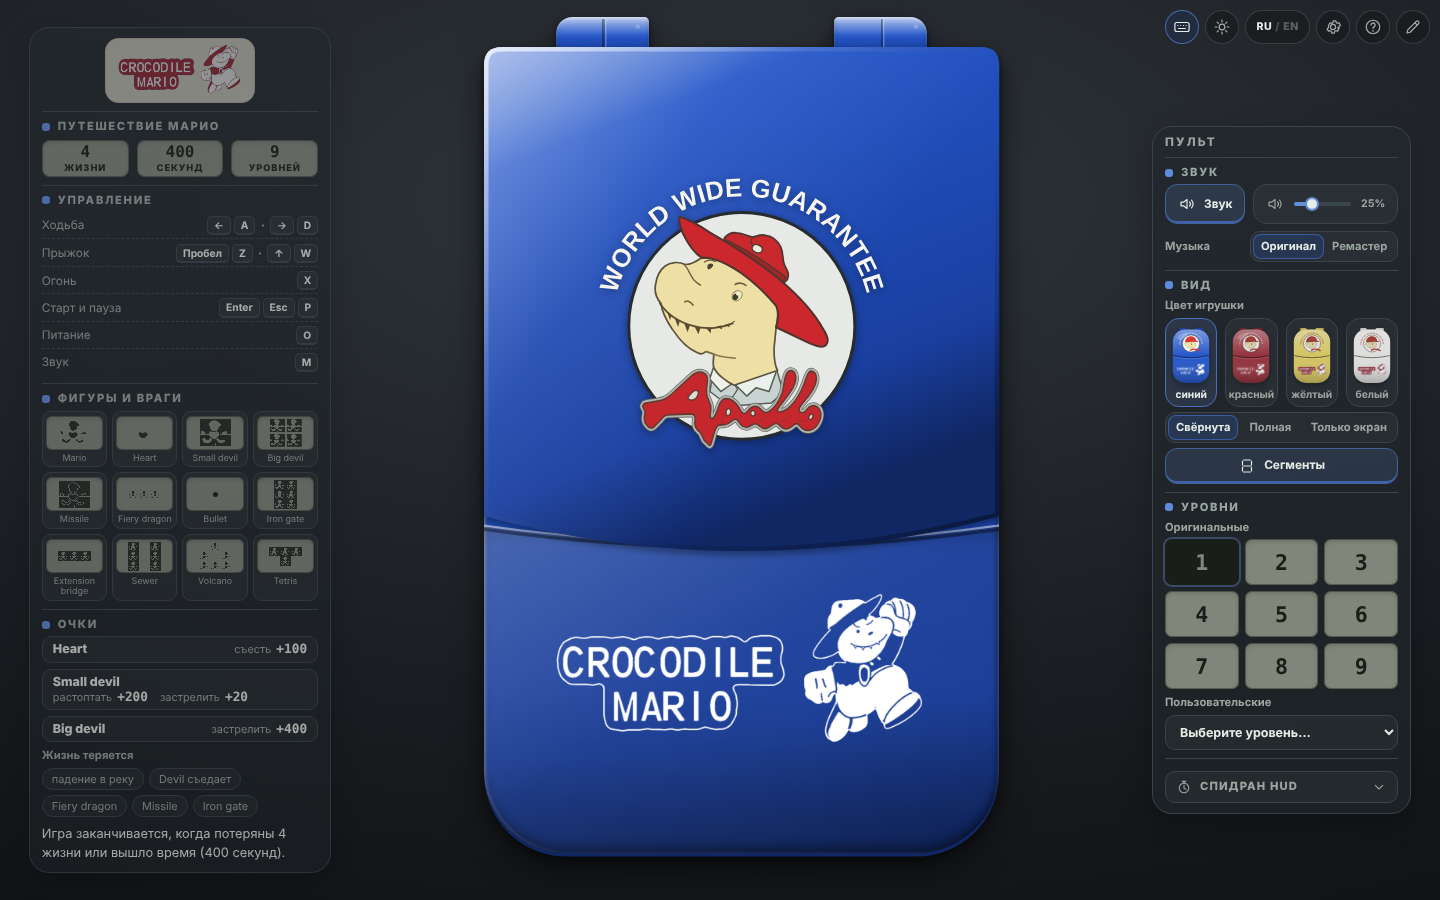
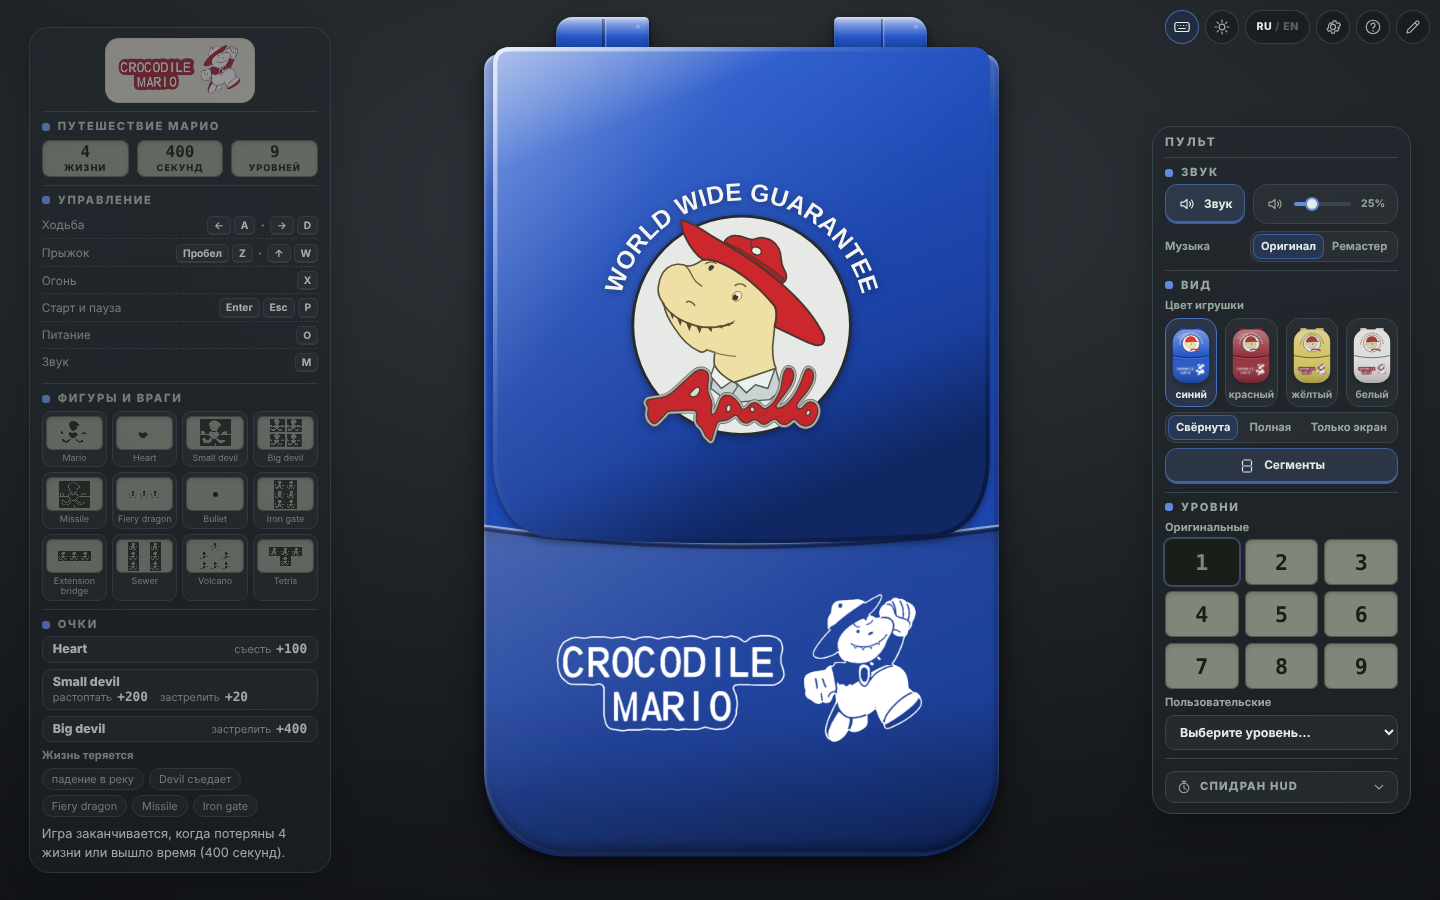
Крышка: перспектива свойством родителя — ось поворота больше не отрывается от шарнира при плавном изменении размера; снимки
Claude-Session: https://claude.ai/code/session_01HTeFxEvLK92BAnJD9rQXz2

diff --git a/tests/smoke/lid.spec.ts b/tests/smoke/lid.spec.ts
@@ -190,6 +190,38 @@ test.describe('раскрытие с анимацией', () => {
     expect(open.w).toBeLessThan(closed.w);
     expect(open.matrix === 'none' || /^matrix(3d)?\(/.test(open.matrix)).toBe(true);
 
+    // Геометрия: ось поворота крышки (её нижняя кромка) всё время совпадает с шарниром — нижней кромкой схлопывающегося места крышки.
+    // Раньше конечное значение transform «уплывало» вместе с размером игрушки, переход перезапускался и крышка отрывалась от шарнира.
+    await page.locator('#view-closed').click();
+    await expect.poll(async () => (await frame()).slot, { timeout: 3000 }).toBeLessThan(4);
+    await page.waitForTimeout(300);
+    await page.locator('#lid-cover').click();
+    const pivot = (): Promise<{ gap: number; transforms: number; slot: number; height: number }> =>
+      page.evaluate(() => {
+        const lid = document.getElementById('lid') as HTMLElement;
+        const m = new DOMMatrix(getComputedStyle(lid).transform);
+        const slot = (document.getElementById('lid-slot') as HTMLElement).getBoundingClientRect().height;
+        const height = lid.offsetHeight;
+        // Нижняя кромка крышки в слое слота: высота − сдвиг вверх; она должна лежать ровно на нижней границе слота.
+        return {
+          gap: Math.abs(height + m.m42 - slot),
+          transforms: document.getAnimations().filter((a) => (a as CSSTransition).transitionProperty === 'transform').length,
+          slot,
+          height,
+        };
+      });
+    const pivots: { gap: number; transforms: number; slot: number; height: number }[] = [];
+    for (let i = 0; i < 16; i++) {
+      pivots.push(await pivot());
+      await page.waitForTimeout(55);
+    }
+    for (const p of pivots) {
+      expect(p.gap).toBeLessThan(3);
+      expect(p.transforms).toBeLessThanOrEqual(1); // один переход, а не цепочка перезапусков
+    }
+    expect(pivots.some((p) => p.slot > 30 && p.slot < p.height - 30)).toBe(true); // проверены и промежуточные кадры
+    await expect.poll(async () => (await pivot()).slot, { timeout: 3000 }).toBeGreaterThan(200);
+
     // Пока крышка поворачивается, шарниров и шлейфа не видно (они за крышкой); после раскрытия проявляются.
     await page.locator('#view-closed').click();
     await expect.poll(async () => (await frame()).slot, { timeout: 3000 }).toBeLessThan(4);

diff --git a/src/styles.css b/src/styles.css
@@ -976,12 +976,20 @@ body[data-chrome='toy'] {
   transition: grid-template-rows var(--flip, 0s) var(--flip-ease, ease), z-index 0s linear calc(var(--flip, 0s) * 0.5);
 }
 
+.toy__lidslot {
+  /* Перспектива — свойством родителя, а не функцией в `transform`: единицы размера (cqw, --stage-w) меняются, пока игрушка плавно
+     меняет размер, и конечное значение `transform` «уплывало» бы каждый кадр — переход перезапускался и крышка отставала от шарнира.
+     Точка схода — на шарнире (нижняя кромка слота). */
+  perspective: calc(var(--stage-w) * 2.4);
+  perspective-origin: 50% 100%;
+}
+
 .toy__lidslot > .lid {
   min-height: 0;
   align-self: start;
   transform-origin: 50% 100%;
   transform-style: preserve-3d;
-  transform: translateY(0) perspective(240cqw) rotateX(0deg);
+  transform: translateY(0) rotateX(0deg);
   transition: transform var(--flip, 0s) var(--flip-ease, ease);
 }
 
@@ -1057,15 +1065,11 @@ body[data-chrome='toy'] {
 }
 
 .toy[data-closed] .toy__lidslot > .lid {
-  transform: translateY(-100%) perspective(240cqw) rotateX(-180deg);
+  transform: translateY(-100%) rotateX(-180deg);
 }
 
 /* Закрытая (по фото): шарниры — две аккуратные разделённые втулки слева и справа, выглядывают из-за верхней кромки крышки;
    посередине ничего нет (шлейф уложен внутрь), кромка крышки ровная. */
-.toy__knuckle {
-  transition: margin-top var(--flip, 0s) var(--flip-ease, ease);
-}
-
 .toy[data-closed] .toy__knuckle {
   margin-top: -1.2cqw;
 }

diff --git a/docs/visual-spec.md b/docs/visual-spec.md
@@ -141,9 +141,9 @@
 
 **Закрытая раскладушка.** По умолчанию игрушка закрыта: крышка сложена на нижнюю половину и обращена к зрителю оборотом, снизу выглядывает «подбородок» нижней половины с логотипом Crocodile Mario ([снимок](screenshots/toy-closed-page.png)). Вид закрытой игрушки — **по фото владельца** (белая игрушка в руках): шарниры — две аккуратные **разделённые втулки слева и справа**, выглядывающие из-за верхней кромки крышки, **посередине ничего нет** (шлейф уложен внутрь, не виден); верхняя кромка крышки ровная; **свободная кромка крышки — плавная дуга без выступа**, переходящая от края до края корпуса. На обороте — логотип Apollo (векторная реконструкция владельца по трём фото; в `public/brand/`: `apollo-logo.svg` с красной надписью по дуге — на жёлтом и белом корпусах, `apollo-logo-white-caption.svg` с белой — на синем и красном). Устройство CSS:
 
-- крышка — пластина с двумя сторонами: `.lid__front` (экран) и `.lid__cover` (оборот, кнопка «Открыть игрушку»), оборот повёрнут на 180° (`rotateX(180deg)`), у обеих `backface-visibility: hidden`; ось поворота — нижняя кромка крышки (`transform-origin: 50% 100%`), перспектива — функция `perspective(240cqw)` в самом `transform`;
-- закрыто: `translateY(-100%) perspective() rotateX(-180deg)` — крышка ложится на нижнюю половину; её место в потоке схлопывается (`.toy__lidslot`: `grid-template-rows: 1fr → 0fr`), поэтому закрытая игрушка занимает ровно нижнюю половину и стоит по центру, а ширина (`--stage-w`) растёт — закрытая ниже открытой; слой крышки над шарниром (`z-index: 3`), у открытой — под ним (шлейф и втулки принимают нажатия);
-- втулки шарнира в закрытом виде приподнимаются (`.toy__knuckle { margin-top: -1.2cqw }`) и выглядывают из-за кромки крышки, шлейф (`.toy__band`) гаснет;
+- крышка — пластина с двумя сторонами: `.lid__front` (экран) и `.lid__cover` (оборот, кнопка «Открыть игрушку»), оборот повёрнут на 180° (`rotateX(180deg)`), у обеих `backface-visibility: hidden`; ось поворота — нижняя кромка крышки (`transform-origin: 50% 100%`), перспектива — **свойство родителя** `.toy__lidslot` (`perspective: calc(var(--stage-w) * 2.4)`, точка схода на шарнире), а не функция в `transform`: единицы `cqw` меняются, пока игрушка плавно меняет размер, и конечное значение `transform` «уплывало» бы каждый кадр — переход перезапускался и крышка отрывалась от шарнира (на это есть тест: ось крышки всё время лежит на нижней границе слота);
+- закрыто: `translateY(-100%) rotateX(-180deg)` — крышка ложится на нижнюю половину; её место в потоке схлопывается (`.toy__lidslot`: `grid-template-rows: 1fr → 0fr`), поэтому закрытая игрушка занимает ровно нижнюю половину и стоит по центру, а ширина (`--stage-w`) растёт — закрытая ниже открытой; слой крышки над шарниром (`z-index: 3`), у открытой — под ним (шлейф и втулки принимают нажатия);
+- втулки шарнира в закрытом виде приподнимаются (`.toy__knuckle { margin-top: -1.2cqw }`, без перехода) и выглядывают из-за кромки крышки, шлейф (`.toy__band`) гаснет; пока крышка поворачивается, втулок и шлейфа не видно (они за крышкой): они гаснут сразу и проявляются, когда поворот закончен;
 - `.lid__front` и нижняя половина — `inert`, закрытая крышка получает фокус и открывается Enter / пробелом;
 - время — `--flip` (= `--morph` × 1,7 ≈ 1 с, кривая `cubic-bezier(0.45, 0.05, 0.2, 1)`); при «уменьшении движения» и на загрузке переход мгновенный.
 
